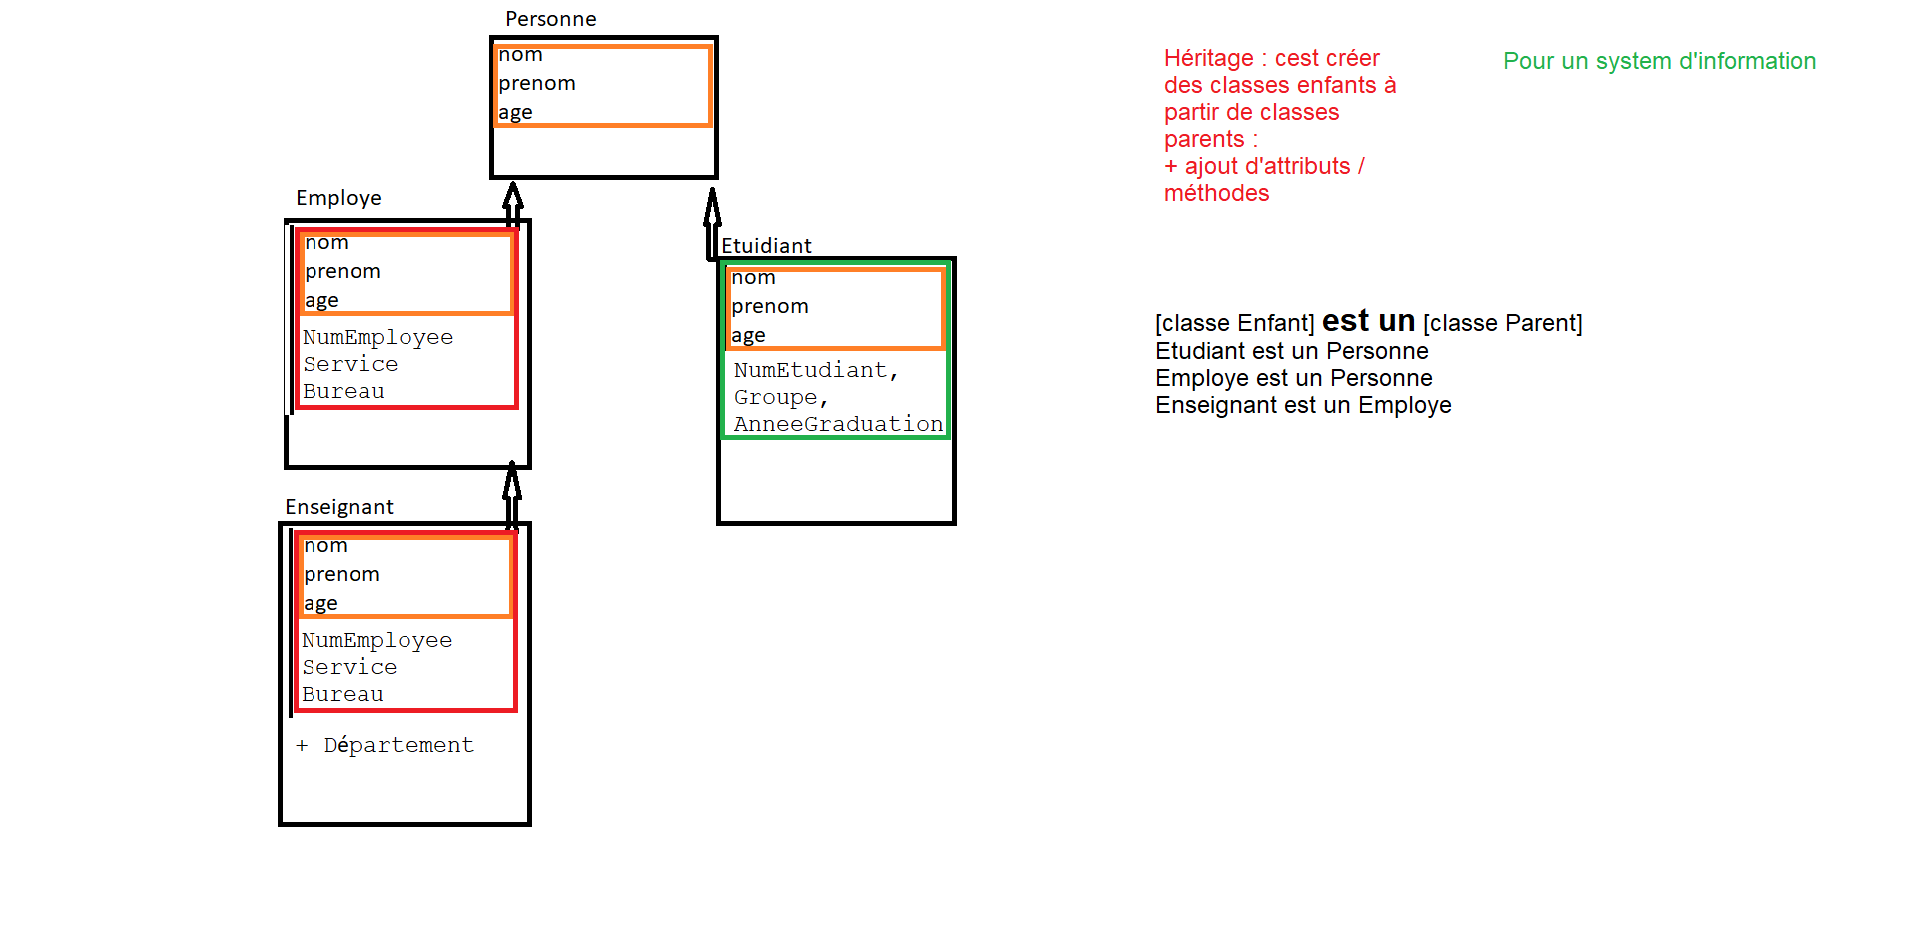
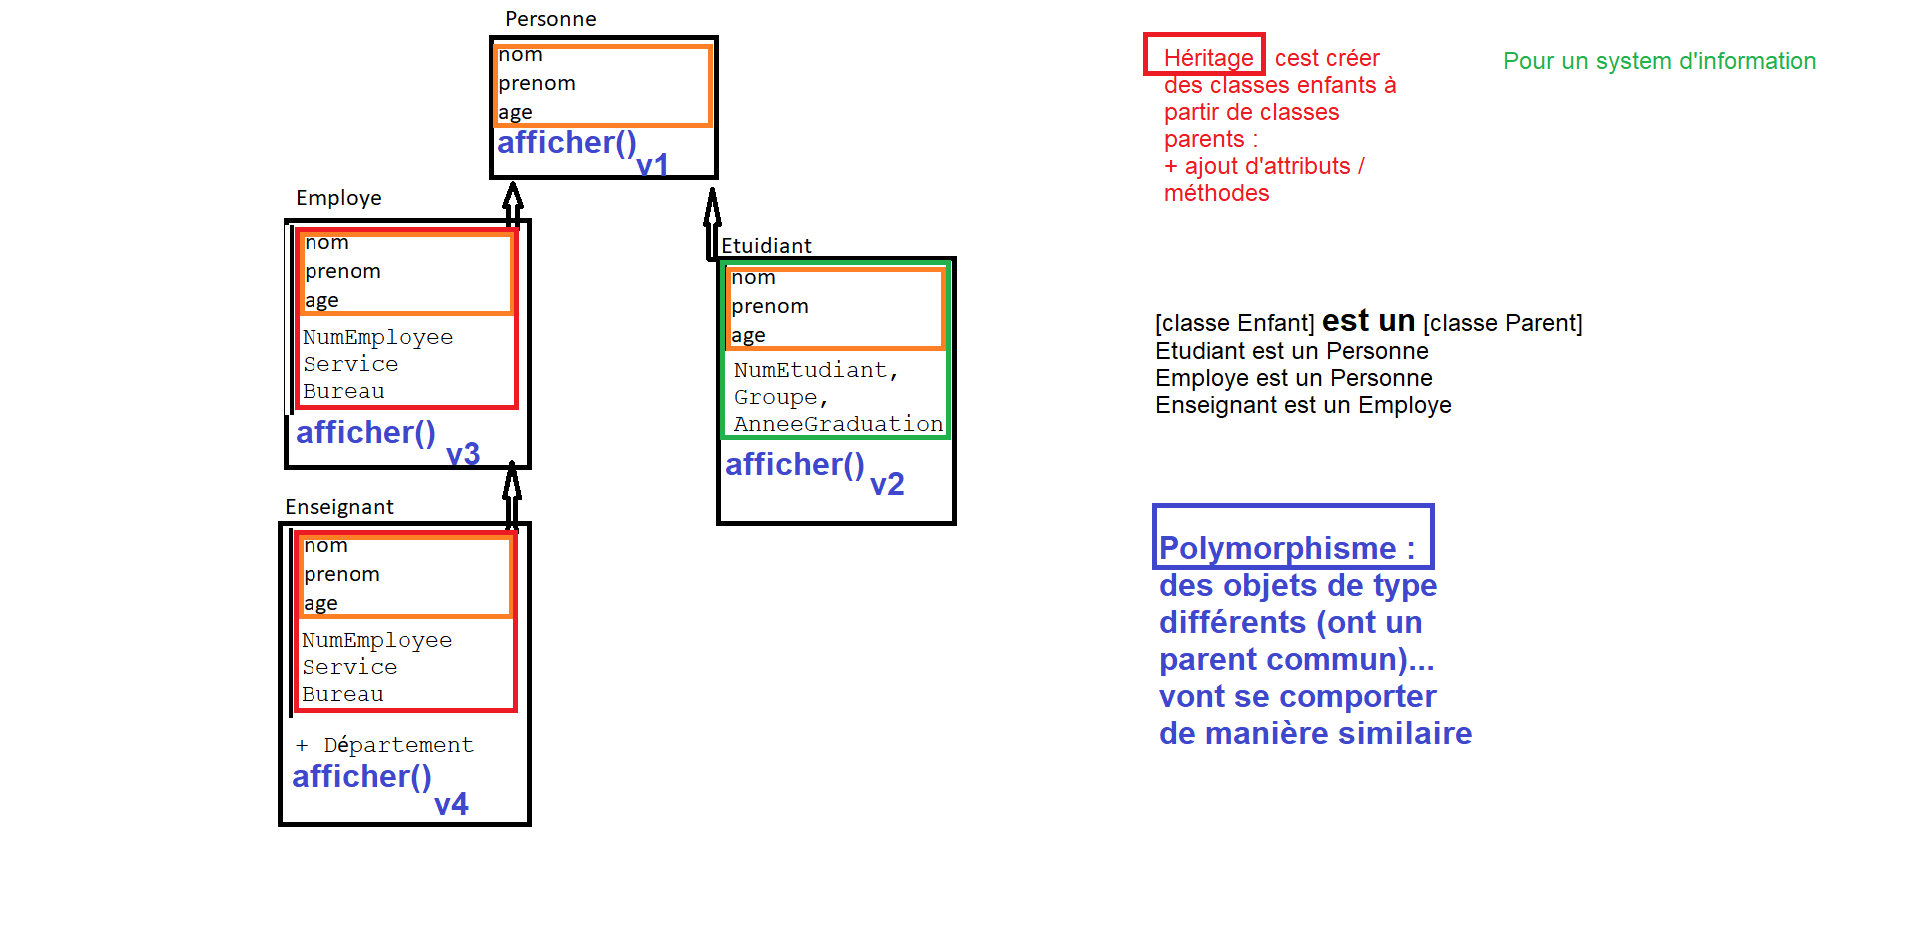
Exemple polymorphime

diff --git a/exemplePoly.py b/exemplePoly.py
@@ -18,7 +18,7 @@ class Personne:
         self.prenom = p_prenom
         self.age = p_age
 
-    def afficher(self):
+    def presenteToi(self):
         print('Je suis ', self.prenom, 'et j ai', self.age)
 
 #class Etudiant hérite de Personne ::
@@ -29,6 +29,10 @@ class Etudiant(Personne):
         self.NumEtudiant = p_NumEtudiant
         self.Groupe = p_Groupe
         self.AnneeGraduation =p_AnneeGraduation
+
+    def presenteToi(self):
+        print('Je suis ', self.prenom, 'et suis dans le gr : ', self.Groupe)
+
 """
   # constructeur V2 en utilisant un objet de type Personne (parent)
     def __init__(self, p_nom, p_prenom, p_age, p_NumEtudiant, p_Groupe, p_AnneeGraduation):
@@ -62,7 +66,7 @@ liste.append(E2)
 
 
 for x in liste:
-    x.afficher()
+    x.presenteToi()
 
 
 #Exercice Créer une liste de 4 Voiture
